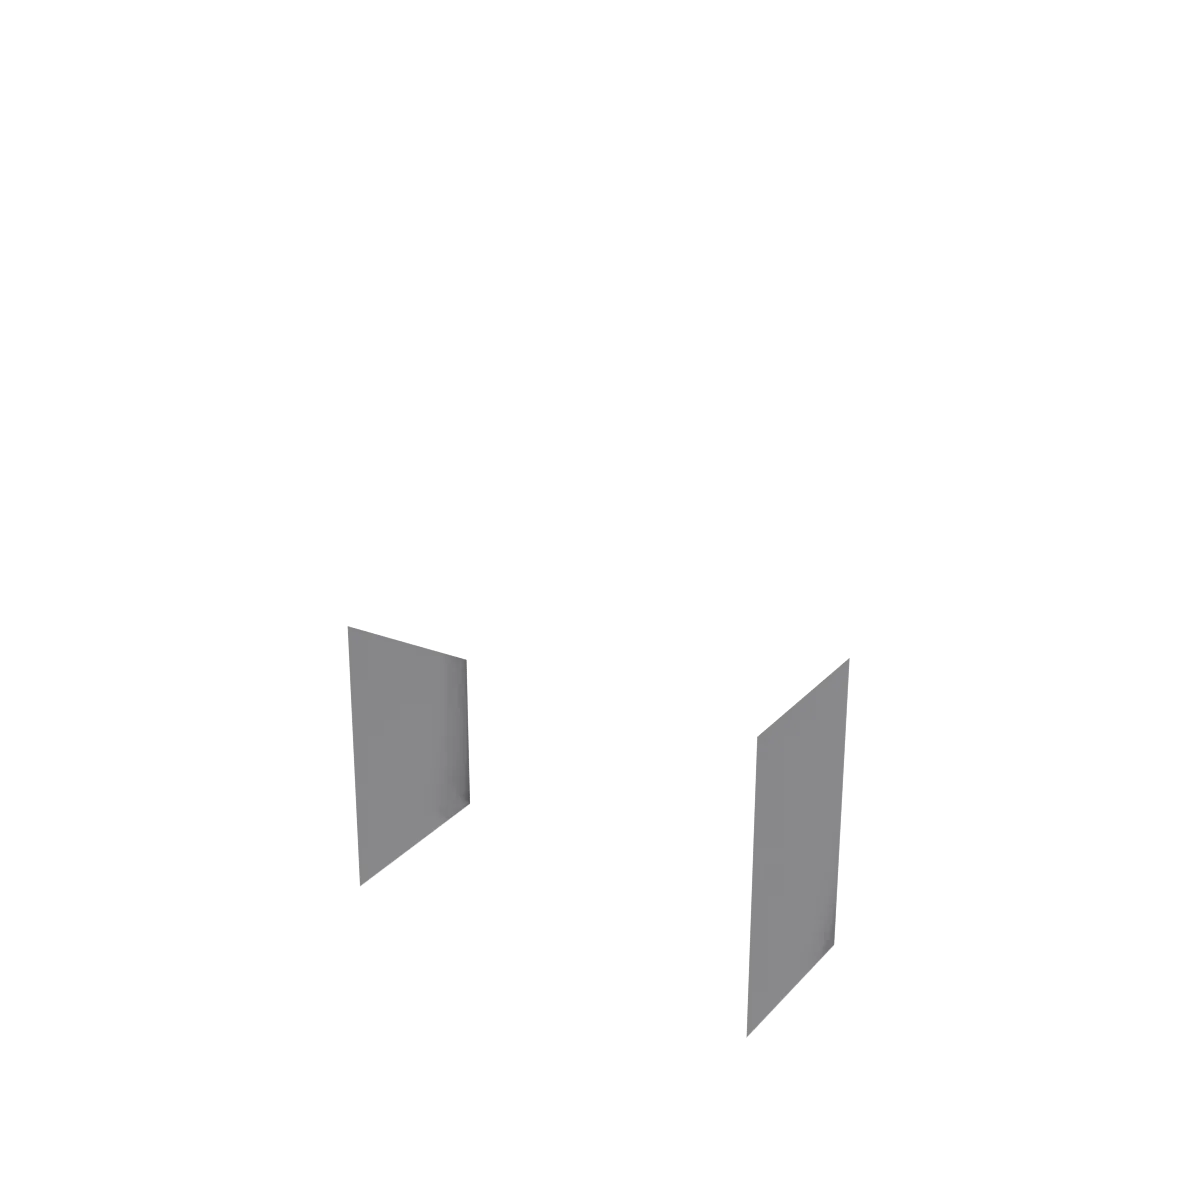
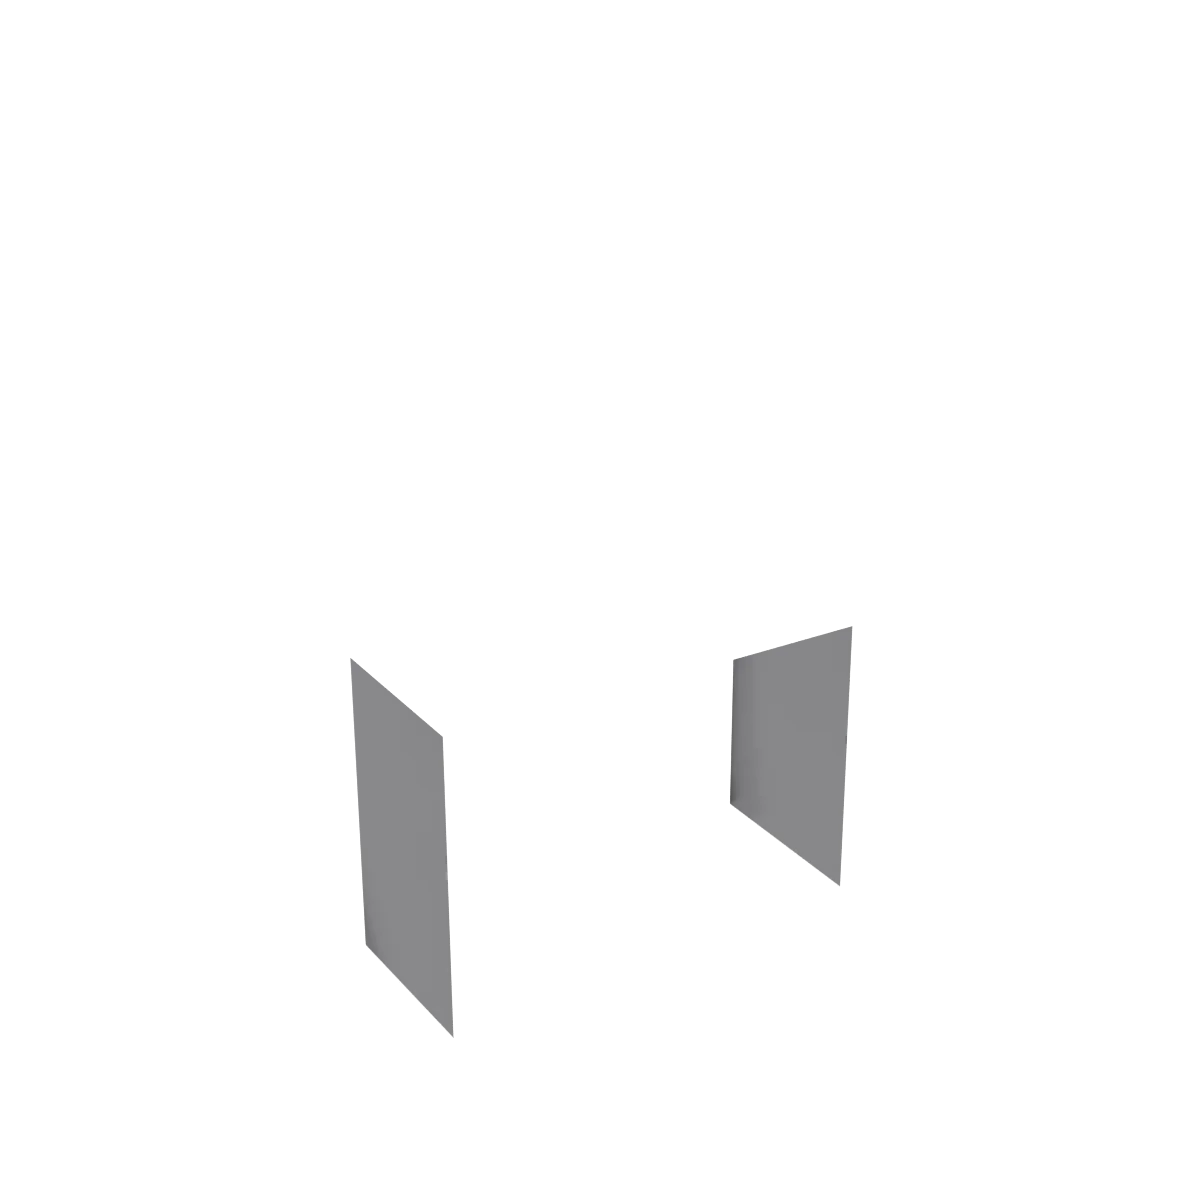
/quote: work table renders from the front-left (left end nearest), as in the reference
Claude-Session: https://claude.ai/code/session_01SuADwQBP7Jm1zo43bAQdQh

Changed region(s): [[0.5858, 0.5242, 0.7092, 0.8633], [0.2775, 0.6783, 0.4008, 0.8633], [0.2775, 0.5242, 0.4008, 0.6783]]

diff --git a/public/quote.html b/public/quote.html
@@ -1875,7 +1875,7 @@ window.addEventListener('resize', () => { if (!$('viewProd').hidden && pState.p)
    Rendered in Blender for this page: one camera per length band, a base (studio, top, legs) and every
    add-on as a see-through layer with its own floor shadow, cut where the legs / top are in front of it.
    The page stacks the layers for the build the customer picks. Files: /images/worktable/layers/<band>/<layer>.webp */
-const BANDS = {"1050": {"res": 1200, "FL": [351.1, 940.0], "FR": [732.6, 1078.3], "BL": [481.4, 838.7], "TFR": [753.5, 722.0], "TFL": [306.7, 597.6], "topY": 378.8, "floorY": 1094.9, "rackY": 108}};
+const BANDS = {"1050": {"res": 1200, "FL": [467.4, 1078.3], "FR": [848.9, 940.0], "BL": [355.0, 957.2], "TFR": [893.3, 597.6], "TFL": [446.5, 722.0], "topY": 378.8, "floorY": 1094.9, "rackY": 108}};
 const BAND_KEYS = Object.keys(BANDS).map(Number).sort((x, y) => x - y);
 const LIMG = (b, n) => '/images/worktable/layers/' + b + '/' + n + '.webp';
 const DIMG = (n) => '/images/worktable/' + n + '.webp';
@@ -1925,7 +1925,7 @@ function drawLayerDims(band, crop, L, D) {
   const px = $('rStage').getBoundingClientRect().width || 600, k = res / px, sc = Math.min(1, Math.max(0.62, px / 600)), fs = 13 * sc * k, off = 22 * sc * k;
   const seg = (a, b, sx, sy) => { const len = Math.hypot(b[0] - a[0], b[1] - a[1]) || 1; let nx = -(b[1] - a[1]) / len, ny = (b[0] - a[0]) / len; if (nx * sx + ny * sy < 0) { nx = -nx; ny = -ny; } return [a[0] + nx * off, a[1] + ny * off, b[0] + nx * off, b[1] + ny * off]; };
   const BR = [m.FR[0] + m.BL[0] - m.FL[0], m.FR[1] + m.BL[1] - m.FL[1]], TFL = m.TFL || m.TFR;
-  const segs = m.TFL
+  const segs = (m.TFL && m.FR[1] > m.FL[1])   /* right end nearer: D on the right end, H on the left corner */
     ? { L: seg(m.FL, m.FR, 0, 1), D: seg(m.FR, BR, 1, 0.3), H: [TFL[0] - off, m.FL[1], TFL[0] - off, TFL[1]] }
     : { L: seg(m.FL, m.FR, 0, 1), D: seg(m.FL, m.BL, -1, 0.3), H: [m.TFR[0] + off, m.FR[1], m.TFR[0] + off, m.TFR[1]] };
   const val = { L: L, D: D, H: 850 }, cx = res / 2, cy = (crop[0] + crop[1]) / 2;
